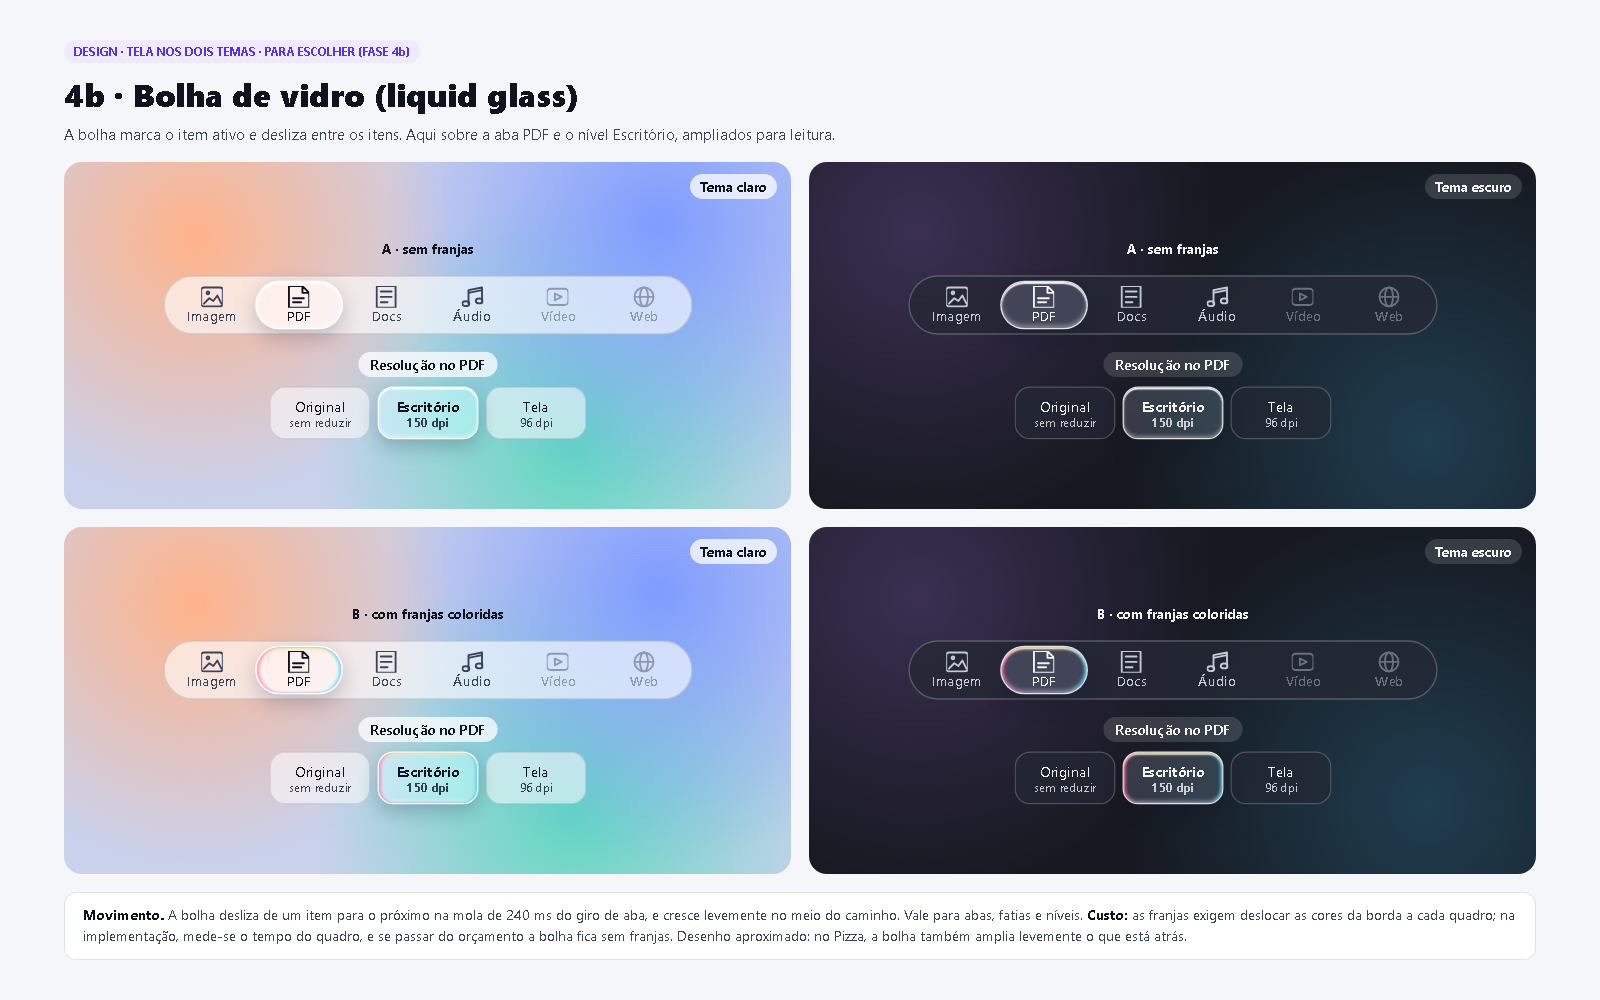
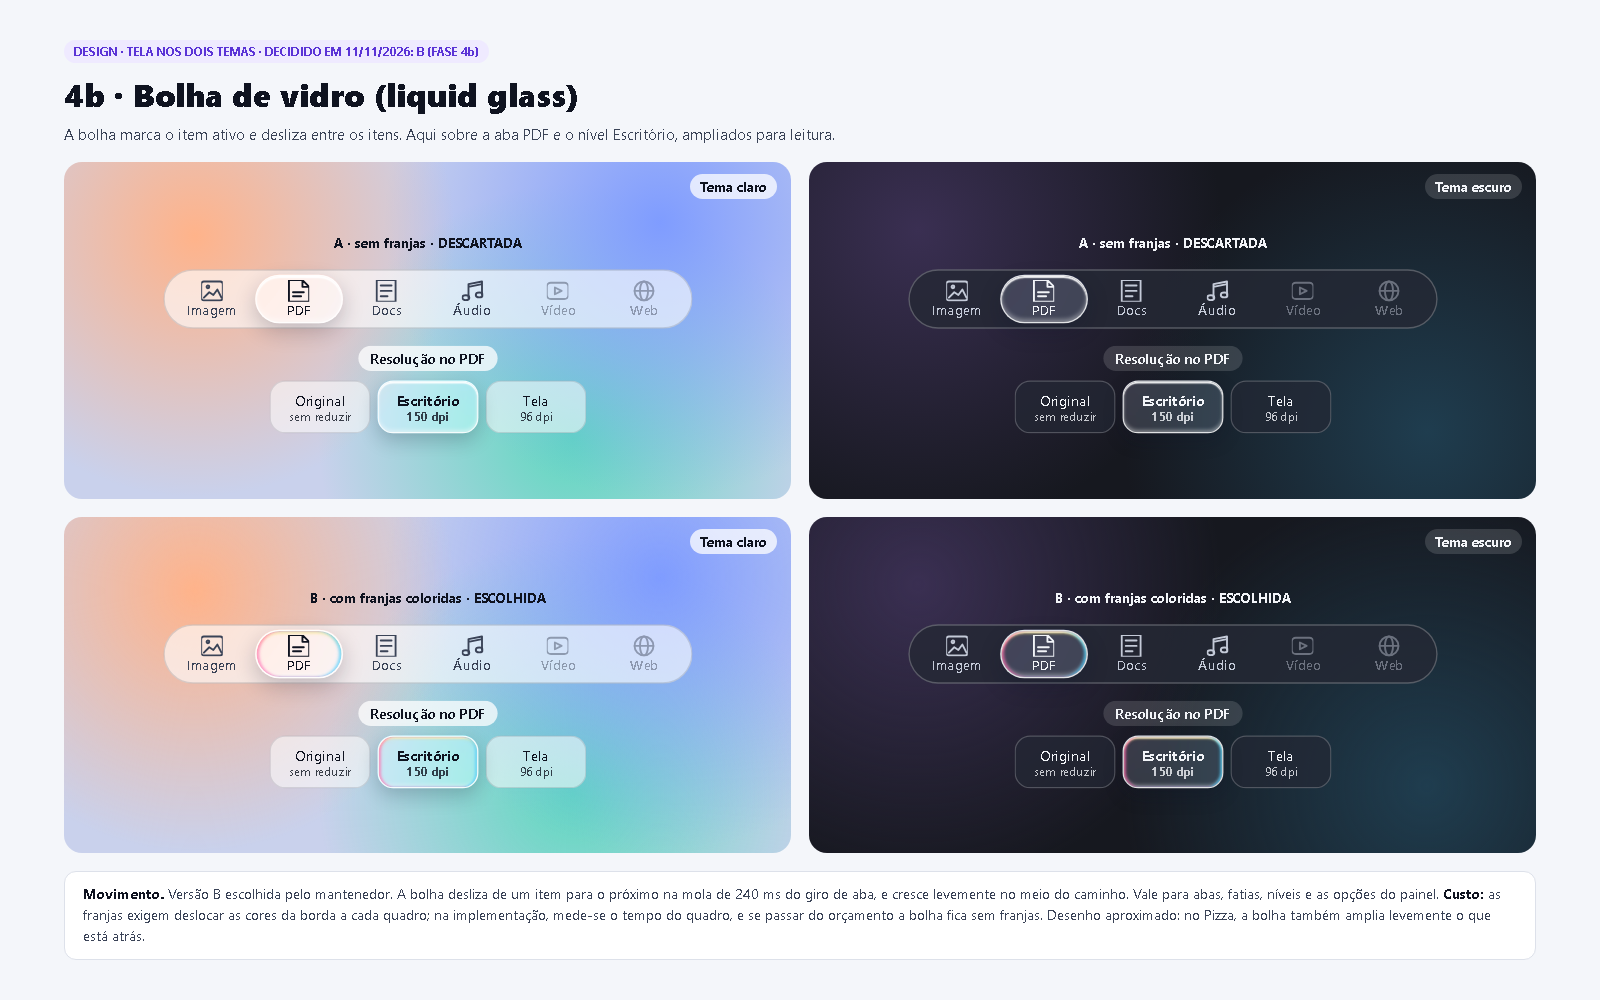
docs: ADR-027, faixa de níveis e bolha de vidro aprovadas (Fase 4b)
Aprovação do mantenedor nas pranchas 4b-1 a 4b-3: bolha de vidro com
franjas (B) em abas, fatias, níveis e nas opções do painel, com queda
para a versão sem franjas se o quadro passar do orçamento. Soltar ou
clicar na fatia converte com o nível padrão (substitui o FR-20); o
painel completo abre no botão direito. SPECS, Anexo A, ideias
descartadas e pranchas atualizados.

diff --git a/docs/adr/027-faixa-de-niveis-e-bolha-de-vidro.md b/docs/adr/027-faixa-de-niveis-e-bolha-de-vidro.md
@@ -1,0 +1,36 @@
+# ADR-027 — Faixa de níveis e bolha de vidro (Fase 4b)
+
+- **Status:** Aceita pelo mantenedor em 11/11/2026, nas pranchas 4b-1, 4b-2 e 4b-3 do Dossiê. Altera o FR-20.
+- **Data:** 2026-11-11
+
+## Contexto
+
+O mantenedor gostou da faixa "Nível de compressão" do design aprovado (Ref-PDF) e pediu que ela valesse para todas as abas, junto com o painel de opções. Pediu também um efeito de vidro em movimento (liquid glass), como uma bolha que passa de um item para o outro, em todo o projeto.
+
+## Decisão
+
+**Faixa de níveis**
+
+- Acima do disco, uma faixa mostra os níveis da opção principal da fatia em hover: Qualidade em JPG, WEBP e AVIF; Resolução em PNG e PDF; Tamanho em ICO. Formato sem opções (TIFF, GIF) não mostra faixa.
+- Soltar ou clicar num nível converte com esse nível. Com o cursor sobre a faixa, a roda troca o nível; no resto do menu, a roda continua trocando a aba.
+- Soltar ou clicar na fatia converte direto com o nível padrão. Isso substitui o FR-20, em que soltar numa fatia com opções abria o painel.
+- O botão direito na fatia abre o painel completo, com todas as opções do formato (como já previa o ADR-025).
+
+**Bolha de vidro**
+
+- O item ativo é marcado por uma bolha de vidro que desliza até o próximo na mola de 240 ms do giro de aba, crescendo levemente no meio do caminho. Vale para as abas, os níveis da faixa e as opções do painel. Nas fatias, o destaque de vidro da fatia em hover passa de uma fatia para a outra com o mesmo movimento.
+- Versão escolhida: **B, com franjas coloridas na borda.** A bolha usa a cópia da tela que o vidro já tem (ADR-023), só em memória e zerada ao fechar.
+- As franjas custam mais por quadro. A implementação mede o tempo de cada quadro; se passar do orçamento da animação, a bolha cai para a versão sem franjas, sem mudar a forma.
+- No painel, a opção escolhida em cada grupo também é marcada pela bolha. O botão Converter continua na cor de destaque.
+
+## Consequências
+
+Converter fica a um gesto em quase todos os casos: arrastar, passar pelo nível e soltar. O painel deixa de interromper o fluxo e vira o caminho para quem quer ajustar tudo. A roda passa a ter dois papéis, conforme a posição do cursor; a dica do menu explica isso. Não há dependência nova nem captura de teclado (SEC-01): a roda continua chegando pelo hook de mouse que já existe.
+
+## Alternativas descartadas
+
+- Painel a cada soltura numa fatia com opções (FR-20 original): interrompe o gesto para quem só quer o padrão.
+- Várias linhas de níveis, uma por opção: ocupa a tela do notebook; as demais opções ficam no painel completo.
+- Roda sobre a fatia trocando o nível: a roda deixaria de trocar a aba sobre o disco.
+- Bolha sem franjas (versão A): escolhida a versão com franjas; a sem franjas fica só como modo de economia.
+- Opção escolhida do painel em azul sólido: substituída pela bolha, para o vidro ser o mesmo em todo o Pizza.

diff --git a/docs/SPECS.md b/docs/SPECS.md
@@ -123,7 +123,7 @@ Decisões das rodadas de alinhamento de 08/11/2026. **Onde houver conflito, esta
 | SEC-10, 11, 12, 14, 16, TST-06, TST-27 | Removidos: o canal com o Worker usa pipes sem nome, entregues só a ele. SEC-13 e SEC-15 continuam valendo | 021 |
 | SEC-57 | Confirmado: o MSI só avisa que há versão nova | — |
 | Escolha por clique (detalhes) | O botão direito numa fatia também escolhe: abre o painel de opções e, em formato sem opções, converte direto. No disco, fora das fatias, nenhum botão faz nada. Depois de 10 s sem interação (mouse, roda ou teclado), a escolha fecha; cada interação reinicia a contagem | 025 |
-| FR-04 e FR-20 (Fase 4b) | Acima do disco, uma faixa mostra os níveis da fatia em hover, em todas as abas (exemplo: "Nível de compressão: Impressão, Escritório, Tela"). A faixa mostra só a opção principal de cada formato (Qualidade em JPG, WEBP e AVIF; Resolução em PNG e PDF; Tamanho em ICO) e some em formato sem opções. Soltar ou clicar no nível escolhe; com o cursor sobre a faixa, a roda troca o nível, e no resto do menu continua trocando a aba. Soltar ou clicar na fatia usa o nível padrão, e o painel completo abre no botão direito. Uma bolha de vidro (liquid glass) desliza entre abas, fatias e níveis. O desenho final sai numa prancha do Dossiê e num ADR da Fase 4b | — |
+| FR-04 e FR-20 (Fase 4b) | Acima do disco, uma faixa mostra os níveis da fatia em hover, em todas as abas (exemplo: "Nível de compressão: Impressão, Escritório, Tela"). A faixa mostra só a opção principal de cada formato (Qualidade em JPG, WEBP e AVIF; Resolução em PNG e PDF; Tamanho em ICO) e some em formato sem opções. Soltar ou clicar no nível escolhe; com o cursor sobre a faixa, a roda troca o nível, e no resto do menu continua trocando a aba. Soltar ou clicar na fatia usa o nível padrão, e o painel completo abre no botão direito. Soltar ou clicar na fatia converte com o nível padrão, sem abrir o painel (substitui o FR-20). Uma bolha de vidro com franjas coloridas (versão B) desliza entre abas, fatias, níveis e as opções do painel; se o quadro passar do orçamento, cai para a versão sem franjas. Aprovado nas pranchas 4b-1 a 4b-3 do Dossiê | 027 |
 | Barra de abas (Fase 4d) | Fica mais fina, entre 55% e 70% da altura atual, e cabe seis abas (com Vídeo e Web). Escolhida em 11/11/2026 a versão B: ícone com o nome curto embaixo, 44 px de altura (81% da atual, o mínimo de acessibilidade), alvos de cerca de 65 × 44 px e nome completo para o leitor de tela (prancha Ref-Barra-Abas) | 026 |
 | Temas do vidro (Fase 8) | Na tela de Configuração, paletas opcionais em degradê pastel, no estilo do fundo das pranchas de referência do Dossiê | — |
 | Sobre (Fase 8) | A seção Sobre da Configuração mostra a frase do projeto: "Afinal, tudo acaba em pizza." | — |

diff --git a/docs/ideias-descartadas/README.md b/docs/ideias-descartadas/README.md
@@ -23,6 +23,9 @@ Para reabrir uma ideia, crie um ADR novo que substitui o anterior (veja [`docs/a
 | Fechar a escolha em prazo fixo, ou só depois de 30 s | Fecharia enquanto a pessoa navega no touchpad, ou ocuparia demais uma tela pequena: o prazo é de 10 s sem interação | [ADR-025](../adr/025-escolha-por-clique-apos-o-gesto.md) |
 | Texto das fatias na horizontal com arco leve (versão A) | A descrição longa não cabia nas fatias laterais sem quebrar a linha; ficou a curva completa (B) | [Dossiê](../dossie/README.md#referência--texto-das-fatias) |
 | Barra de abas só com texto curto, 38 px (versão A) | Os alvos ficariam abaixo dos 44 px de acessibilidade; ficou a versão B, com ícone e nome, em 44 px | [Dossiê](../dossie/README.md#referência--barra-de-abas-para-seis-abas) |
+| Painel a cada soltura numa fatia com opções (FR-20 original) | Interrompia o gesto; agora soltar usa o nível padrão e o painel abre no botão direito | [ADR-027](../adr/027-faixa-de-niveis-e-bolha-de-vidro.md) |
+| Bolha de vidro sem franjas (versão A) | Escolhida a versão com franjas coloridas; a sem franjas fica só como modo de economia | [ADR-027](../adr/027-faixa-de-niveis-e-bolha-de-vidro.md) |
+| Opção escolhida do painel em azul sólido | Substituída pela bolha de vidro, igual em todo o Pizza | [ADR-027](../adr/027-faixa-de-niveis-e-bolha-de-vidro.md) |
 | Marca ✓ na fatia escolhida | A fatia só fica em destaque, no mesmo vidro do hover; o ✓ aparece apenas no aviso de concluído | Pedido do mantenedor em 10/11/2026 |
 | Vidro fosco e escuro na fatia escolhida | Ficou escuro demais; voltou ao vidro translúcido do hover | Pedido do mantenedor em 10/11/2026 |
 

diff --git a/docs/PIZZA-PROJETO.md b/docs/PIZZA-PROJETO.md
@@ -743,6 +743,7 @@ Cada decisão também tem um arquivo próprio em [`docs/adr/`](adr/).
 | 023 | GDI+ e desfoque próprio do vidro, substituindo Direct2D e Acrylic do ADR-003 | Acrylic e composição do Windows não funcionam com o disco inativo; sem dependência nova | Vortice, Acrylic, composição, API não documentada |
 | 025 | Soltar em qualquer posição e escolher por clique; soltar na fatia continua como atalho | Não exige sustentar o botão nem mirar no centro | Exigir soltura no centro; selecionar apenas por drop |
 | 026 | Aba Vídeo separada de Áudio, com Media Foundation e FFmpeg | O menu abre na aba do arquivo; cada aba cabe numa volta; o trabalho pesado é dos codecs nativos | Aba única de Áudio e Vídeo, só FFmpeg, só Media Foundation, Rust |
+| 027 | Faixa de níveis acima do disco e bolha de vidro com franjas (Fase 4b) | Converter num gesto, com o padrão ou o nível escolhido; vidro igual em todo o Pizza | Painel a cada soltura, várias linhas de níveis, roda sobre a fatia, bolha sem franjas |
 
 ---
 

diff --git a/docs/dossie/README.md b/docs/dossie/README.md
@@ -135,9 +135,9 @@ Telas do design aprovado, nos temas claro e escuro. No Claude Design, a Ref-Imag
 
 ![Fluxo 6 · pronto](fluxo-6.png)
 
-## Fase 4b · para aprovar
+## Fase 4b · aprovado
 
-Pranchas da próxima etapa do código, nos temas claro e escuro. Depois da aprovação do mantenedor, viram ADR e só então código.
+Aprovado pelo mantenedor em 11/11/2026, com a bolha de vidro B (franjas coloridas) também no painel de opções e entre as fatias. Detalhes no [ADR-027](../adr/027-faixa-de-niveis-e-bolha-de-vidro.md).
 
 ### Faixa de níveis acima do disco
 
